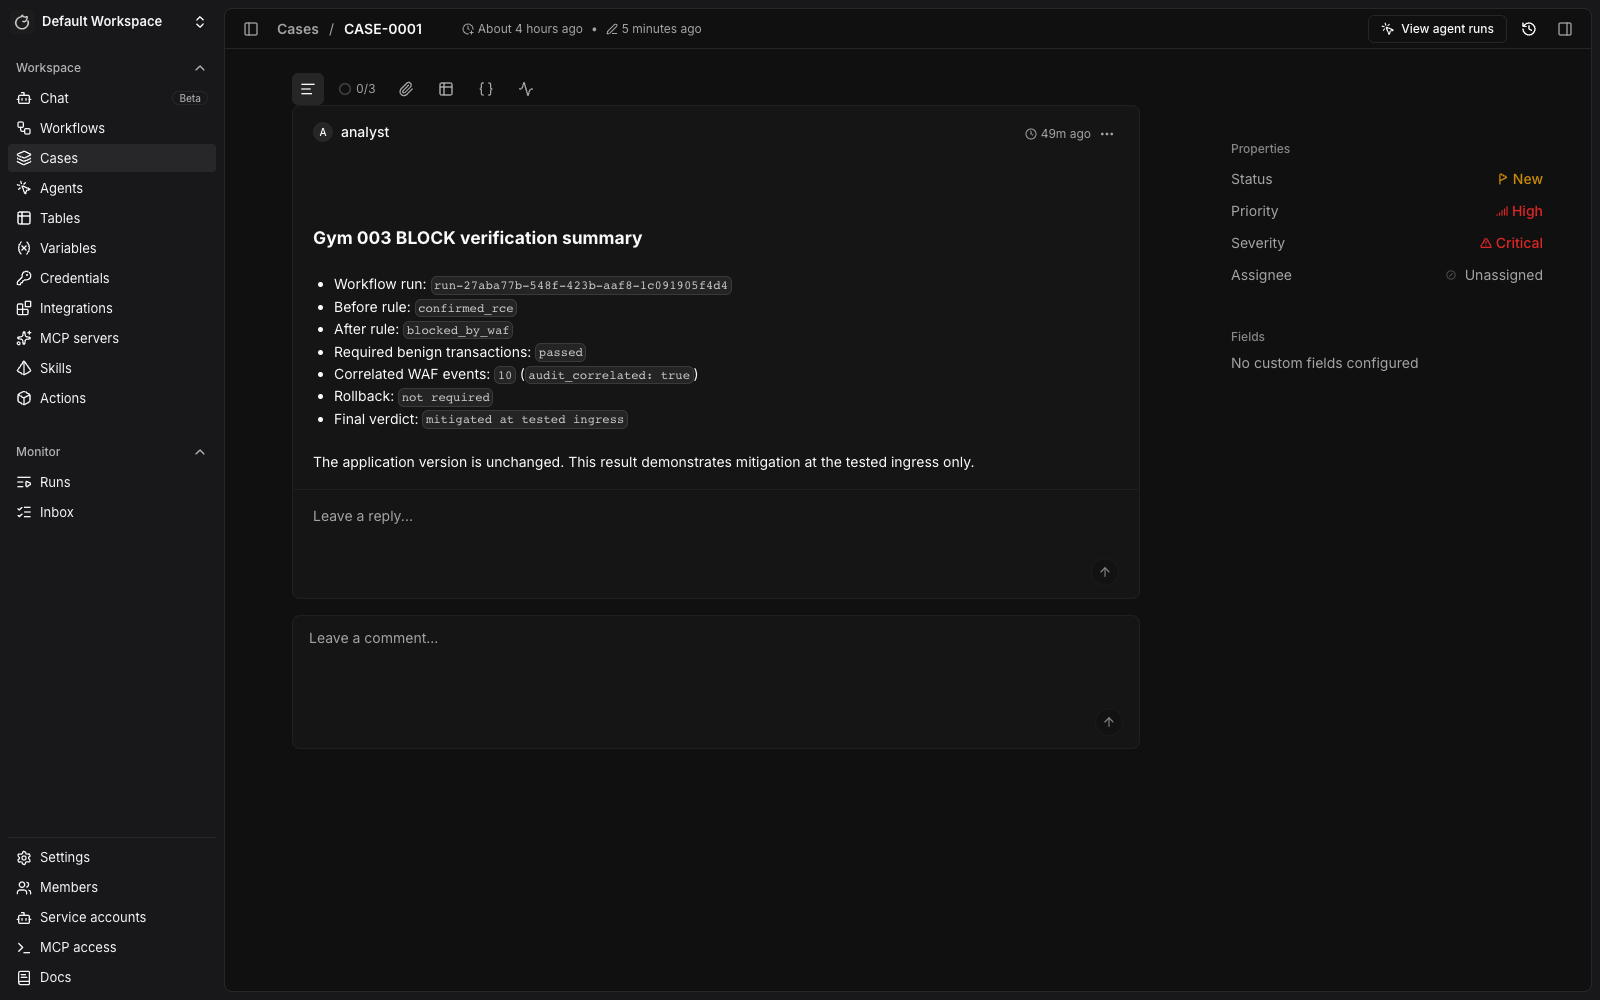
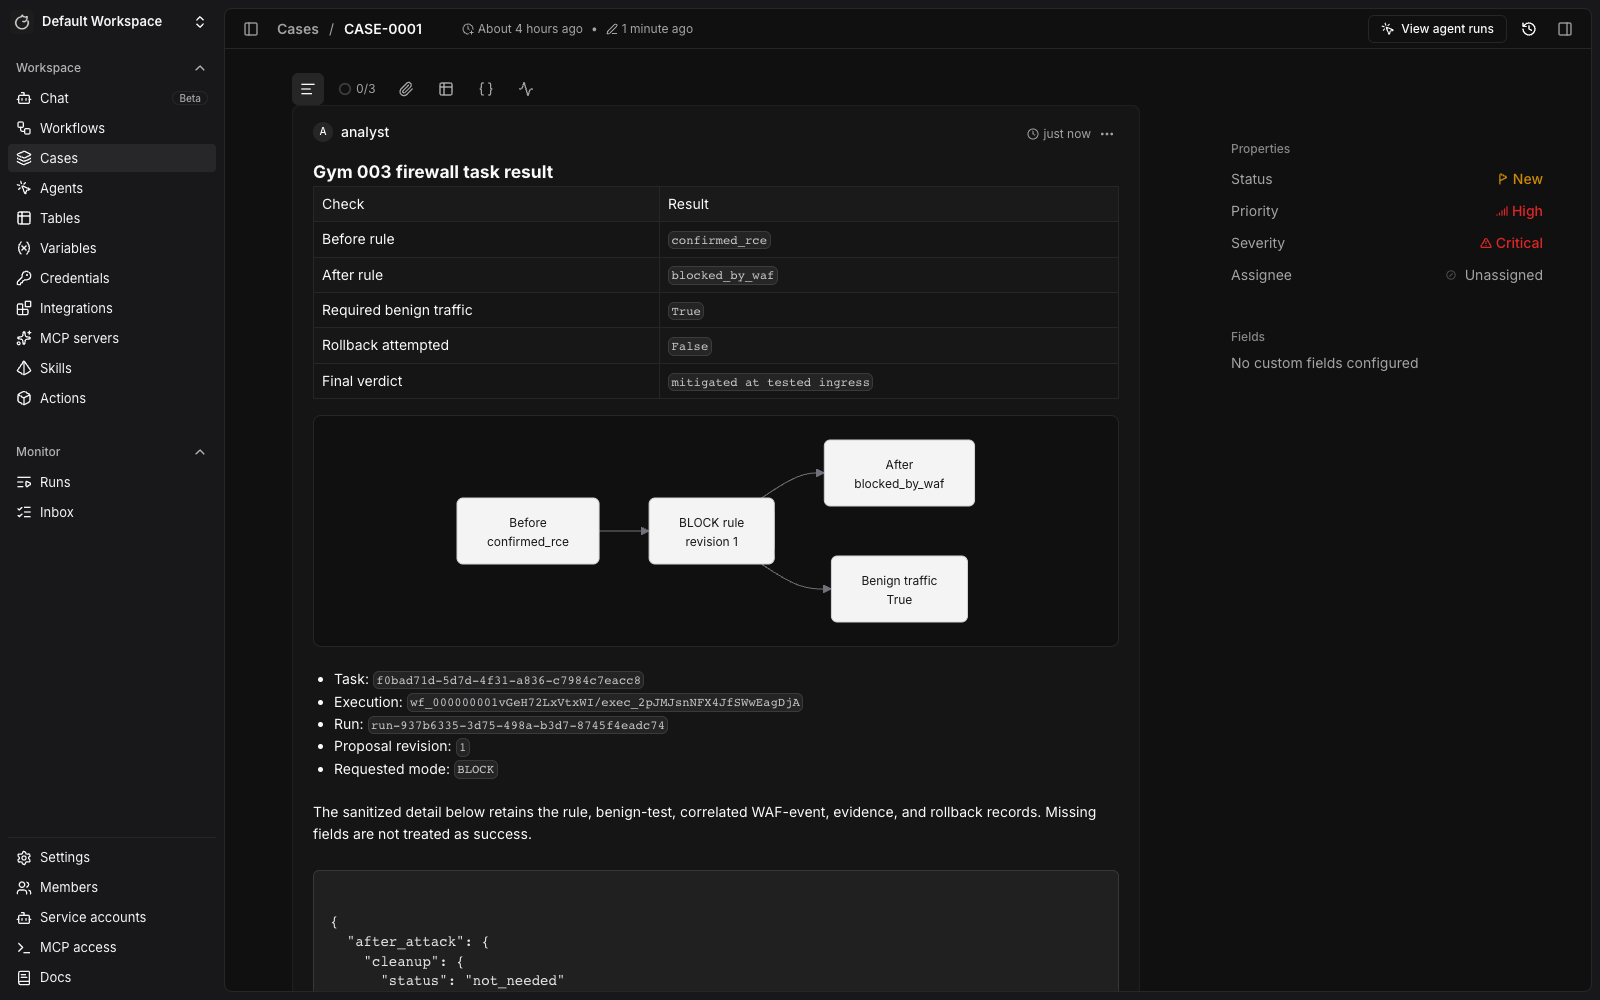
docs: use workflow-native result evidence

diff --git a/003/src/gym_plugin/comments.py b/003/src/gym_plugin/comments.py
@@ -94,7 +94,6 @@ def render_execution_comment(
         rollback = clean.get("cleanup")
     marker = f"<!-- gym-003-execution:{execution_id} -->"
     lines = [
-        marker,
         "## Gym 003 workflow result",
         "",
         f"- Task: `{task_id}`",
@@ -121,6 +120,7 @@ def render_execution_comment(
     ]
     if clean.get("error"):
         lines.extend(("", "### Error", "", f"```json\n{_json(clean['error'])}\n```"))
+    lines.extend(("", marker))
     return "\n".join(lines)
 
 

diff --git a/003/README.md b/003/README.md
@@ -202,15 +202,19 @@ just evaluate
 **Expected state:** A successful BLOCK result records `confirmed_rce` before the
 rule, `blocked_by_waf` after it, required benign transactions as passed,
 audit-correlated WAF events, no rollback, and `mitigated at tested ingress`.
+The workflow-generated case comment renders the outcome as a Markdown table and
+Mermaid flow before the retained sanitized detail.
 `just evaluate` writes its JSON result beneath
 `eval-results/supplier-intake/acceptance/` and restores the managed WAF state.
 
 ![Gym 003 verified BLOCK result](docs/screenshots/05-final-result.png)
 
-**Presenter notes:** “The deterministic workflow holds the WAF credential. It
-confirms activation, proves the attack is denied, checks independent JSON,
-receipt, login, health, and upload traffic, and retains correlated evidence. The
-application is still vulnerable; the claim is mitigation at this ingress.”
+**Presenter notes:** “This comment came from the firewall workflow itself. Its
+table and diagram show the decision; the detailed evidence remains directly
+below. The workflow confirms activation, proves the attack is denied, checks
+independent JSON, receipt, login, health, and upload traffic, and retains
+correlated evidence. The application is still vulnerable; the claim is
+mitigation at this ingress.”
 
 ### Repeat the demo
 
